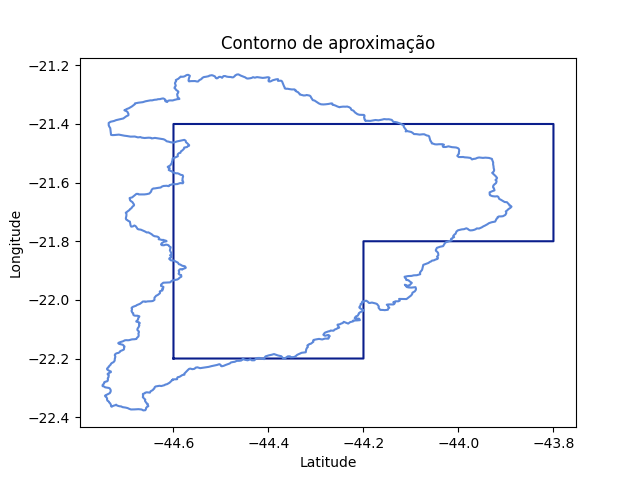
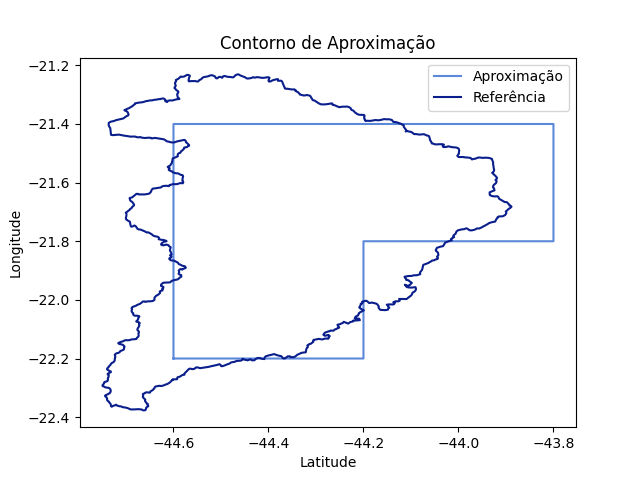
documentação

diff --git a/utils/plotter.py b/utils/plotter.py
@@ -27,7 +27,28 @@ POLYGONAL_ORDER = [
 ]
 
 
-def contour_figure(self, data: pd.DataFrame, file_name: str) -> Figure:
+def contour_figure(data: pd.DataFrame) -> Figure:
+    """
+    Cria um gráfico de contorno para a Bacia do Rio Grande.
+
+    Este método gera um gráfico de contorno que exibe a Bacia do Rio Grande
+    usando as coordenadas de latitude e longitude fornecidas nos dados.
+
+    Parâmetros:
+        data (pd.DataFrame): DataFrame contendo as coordenadas de latitude e longitude.
+
+    Retorna:
+        Figure: O objeto Figure do matplotlib contendo o gráfico de contorno.
+
+    Exemplo:
+        Suponha que 'data' seja um DataFrame contendo as colunas 'lat' e 'long'
+        que representam as coordenadas de latitude e longitude da Bacia do Rio Grande.
+        Você pode chamar o método da seguinte forma:
+
+        >>> fig = contour_figure(data)
+        >>> fig.show()  # Mostra a figura interativamente
+
+    """
     fig, ax = plt.subplots()
 
     ax.plot(data["lat"], data["long"], color="#0A1E8C")
@@ -35,23 +56,48 @@ def contour_figure(self, data: pd.DataFrame, file_name: str) -> Figure:
     ax.set_xlabel("Latitude")
     ax.set_ylabel("Longitude")
 
-    fig.savefig(os.path.join(IMAGES_DIR, f"{file_name}.png"))
+    fig.savefig(os.path.join(IMAGES_DIR, "bacia_rio_grande.png"))
     return fig
 
 
 def apply_contour_figure(data: pd.DataFrame) -> Figure:
+    """
+    Cria uma figura que ilustra a estratégia de contorno aplicada aos dados.
+
+    Este método gera uma figura que apresenta os resultados da estratégia de contorno
+    aplicada aos dados de aproximação e de referência. As trajetórias de contorno
+    são plotadas usando as coordenadas de latitude e longitude dos pontos.
+
+    Parâmetros:
+        data (pd.DataFrame): DataFrame contendo as coordenadas de latitude e longitude
+                             dos pontos de aproximação e referência.
+
+    Retorna:
+        Figure: O objeto Figure do matplotlib contendo a figura com a estratégia de contorno.
+
+    Exemplo:
+        Suponha que 'data' seja um DataFrame contendo as colunas 'lat_aproximacao',
+        'long_aproximacao', 'lat_referencia' e 'long_referencia' que representam
+        as coordenadas de latitude e longitude dos pontos de aproximação e referência.
+        Você pode chamar o método da seguinte forma:
+
+        >>> fig = apply_contour_figure(data)
+        >>> fig.show()  # Mostra a figura interativamente
+
+    """
+
     fig, ax = plt.subplots()
 
     ax.plot(
         data["lat_aproximacao"],
         data["long_aproximacao"],
-        color="#0A1E8C",
+        color="#5C88DA",
         label="Aproximação",
     )
     ax.plot(
         data["lat_referencia"],
         data["long_referencia"],
-        color="#5C88DA",
+        color="#0A1E8C",
         label="Referência",
     )
 
@@ -69,6 +115,7 @@ def predict_figure(
 ) -> Figure:
     rows = 2
     cols = 5
+    """Cria figura de predições para todos os dias"""
 
     # Limites de precipitação
     cbar_min = 0
@@ -106,6 +153,7 @@ def predict_figure(
 
 
 def result_figure(result: List[float]) -> Figure:
+    """Cria a figura do resultado final"""
     # Strings para o eixo X
     labels = [
         "02/dez",
@@ -188,9 +236,21 @@ def result_figure(result: List[float]) -> Figure:
 
 
 def figures_to_readme() -> None:
-    from utils.data_reader import read_contour_file, multithreading_reader_dat_file
-    from utils.preprocess import apply_contour
-    from utils.predict import predict_precipitation
+    from data_reader import read_contour_file, multithreading_reader_dat_file
+    from preprocess import apply_contour
+    from predict import predict_precipitation
+
+    contour = (
+        read_contour_file(
+            file_path="/home/viniciusparede/repositories/personal/btg-challenge/data/PSATCMG_CAMARGOS.bln"
+        ),
+    )[0]
+    forecast = multithreading_reader_dat_file(folder_path=DATA_DIR)
+
+    df = apply_contour(contour, forecast)
+
+    contour_figure(data=contour)
+    apply_contour_figure(data=df)
 
 
 if __name__ == "__main__":

diff --git a/docs/data_understanding.md b/docs/data_understanding.md
@@ -15,7 +15,7 @@ read_contour_file(file_path: str)
 
 Os dados obtidos através do arquivo PSATCMG_CAMARGOS.bln representam as coordenadas geográficas da Bacia do Rio Grande. A figura abaixo demonstra uma visualização mais efetiva da região.
 
-![Contorno Bacia Rio do Grande](/data/bacia_rio_grande.png)
+![Contorno Bacia Rio do Grande](/images/bacia_rio_grande.png)
 
 ## Arquivos de previsão de precipitação
 O nome dos arquivos seguem o seguinte padrão: ETA40_p**ddmmyy**a**ddmmyy**.dat
